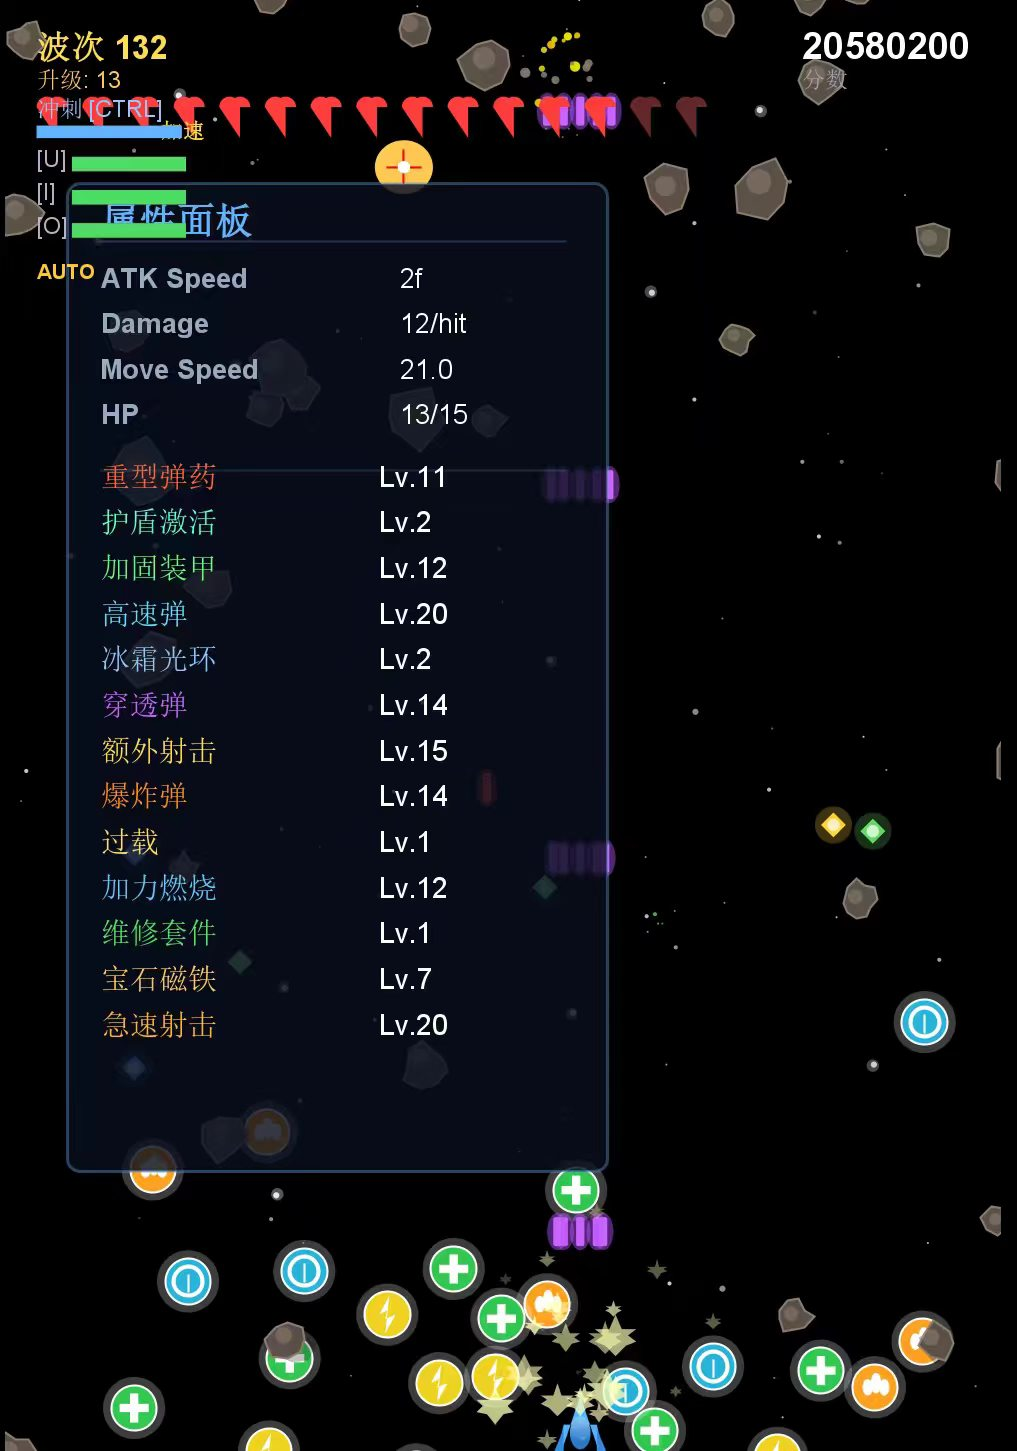
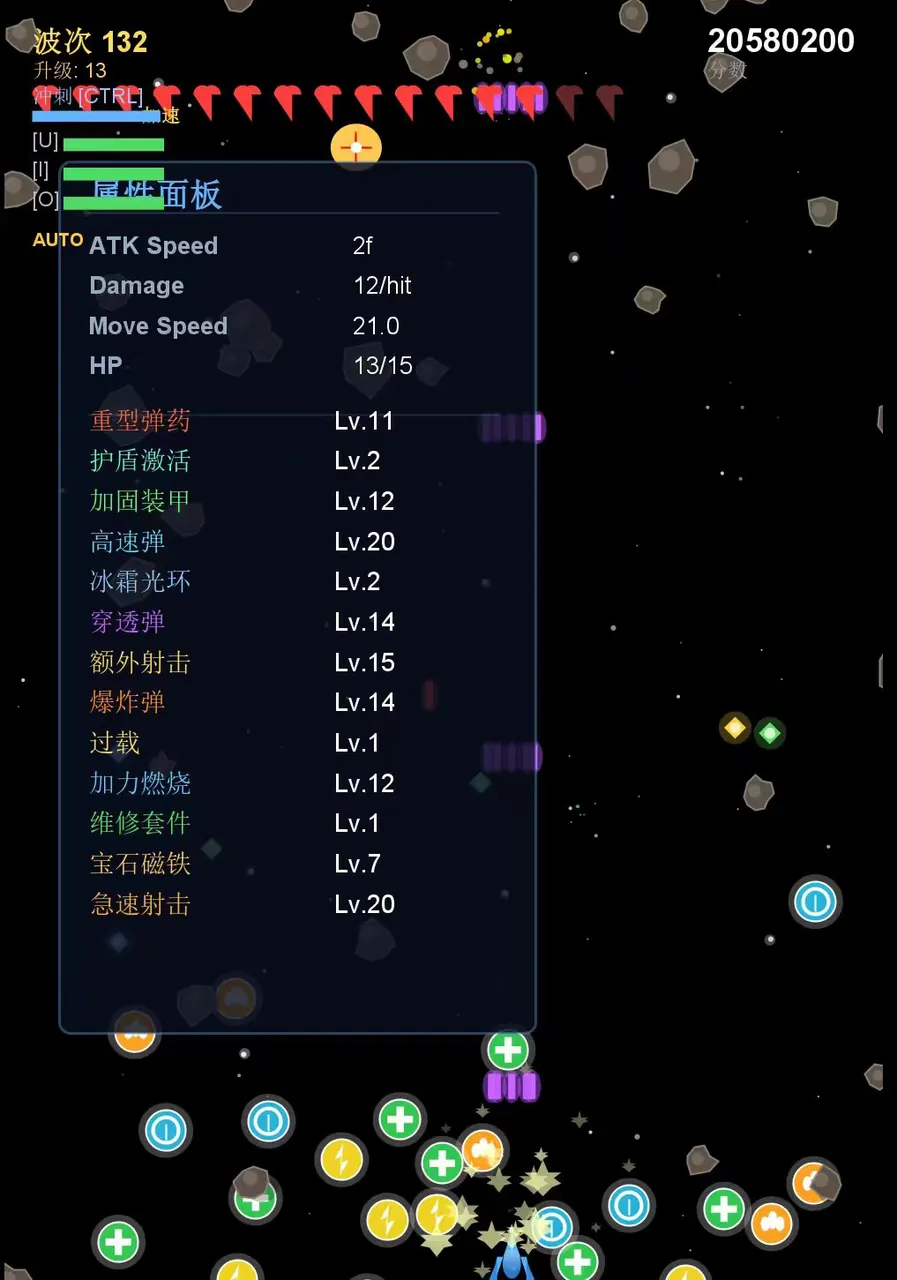
perf: 图片压缩 71% + 页面过渡/入场动画提速

Changed region(s): [[0.0312, 0.0312, 0.0936, 0.0625], [0.1249, 0.5625, 0.1561, 0.5938], [0.0936, 0.5, 0.1249, 0.5312]]

diff --git a/src/composables/useGsapReveal.ts b/src/composables/useGsapReveal.ts
@@ -5,7 +5,7 @@ export function useGsapReveal(
   scope: Ref<HTMLElement | null>,
   options: { y?: number; stagger?: number } = {},
 ) {
-  const { y = 40, stagger = 0.1 } = options
+  const { y = 40, stagger = 0.05 } = options
   let ctx: gsap.Context | null = null
   let observer: IntersectionObserver | null = null
 
@@ -28,7 +28,7 @@ export function useGsapReveal(
             gsap.to(target, {
               opacity: 1,
               y: 0,
-              duration: 0.8,
+              duration: 0.45,
               ease: 'power3.out',
               delay: index * stagger,
             })

diff --git a/src/App.vue b/src/App.vue
@@ -24,8 +24,8 @@ import AppFooter from '@/components/layout/AppFooter.vue'
 .page-enter-active,
 .page-leave-active {
   transition:
-    opacity 0.25s ease,
-    transform 0.25s ease;
+    opacity 0.15s ease,
+    transform 0.15s ease;
 }
 .page-enter-from {
   opacity: 0;
